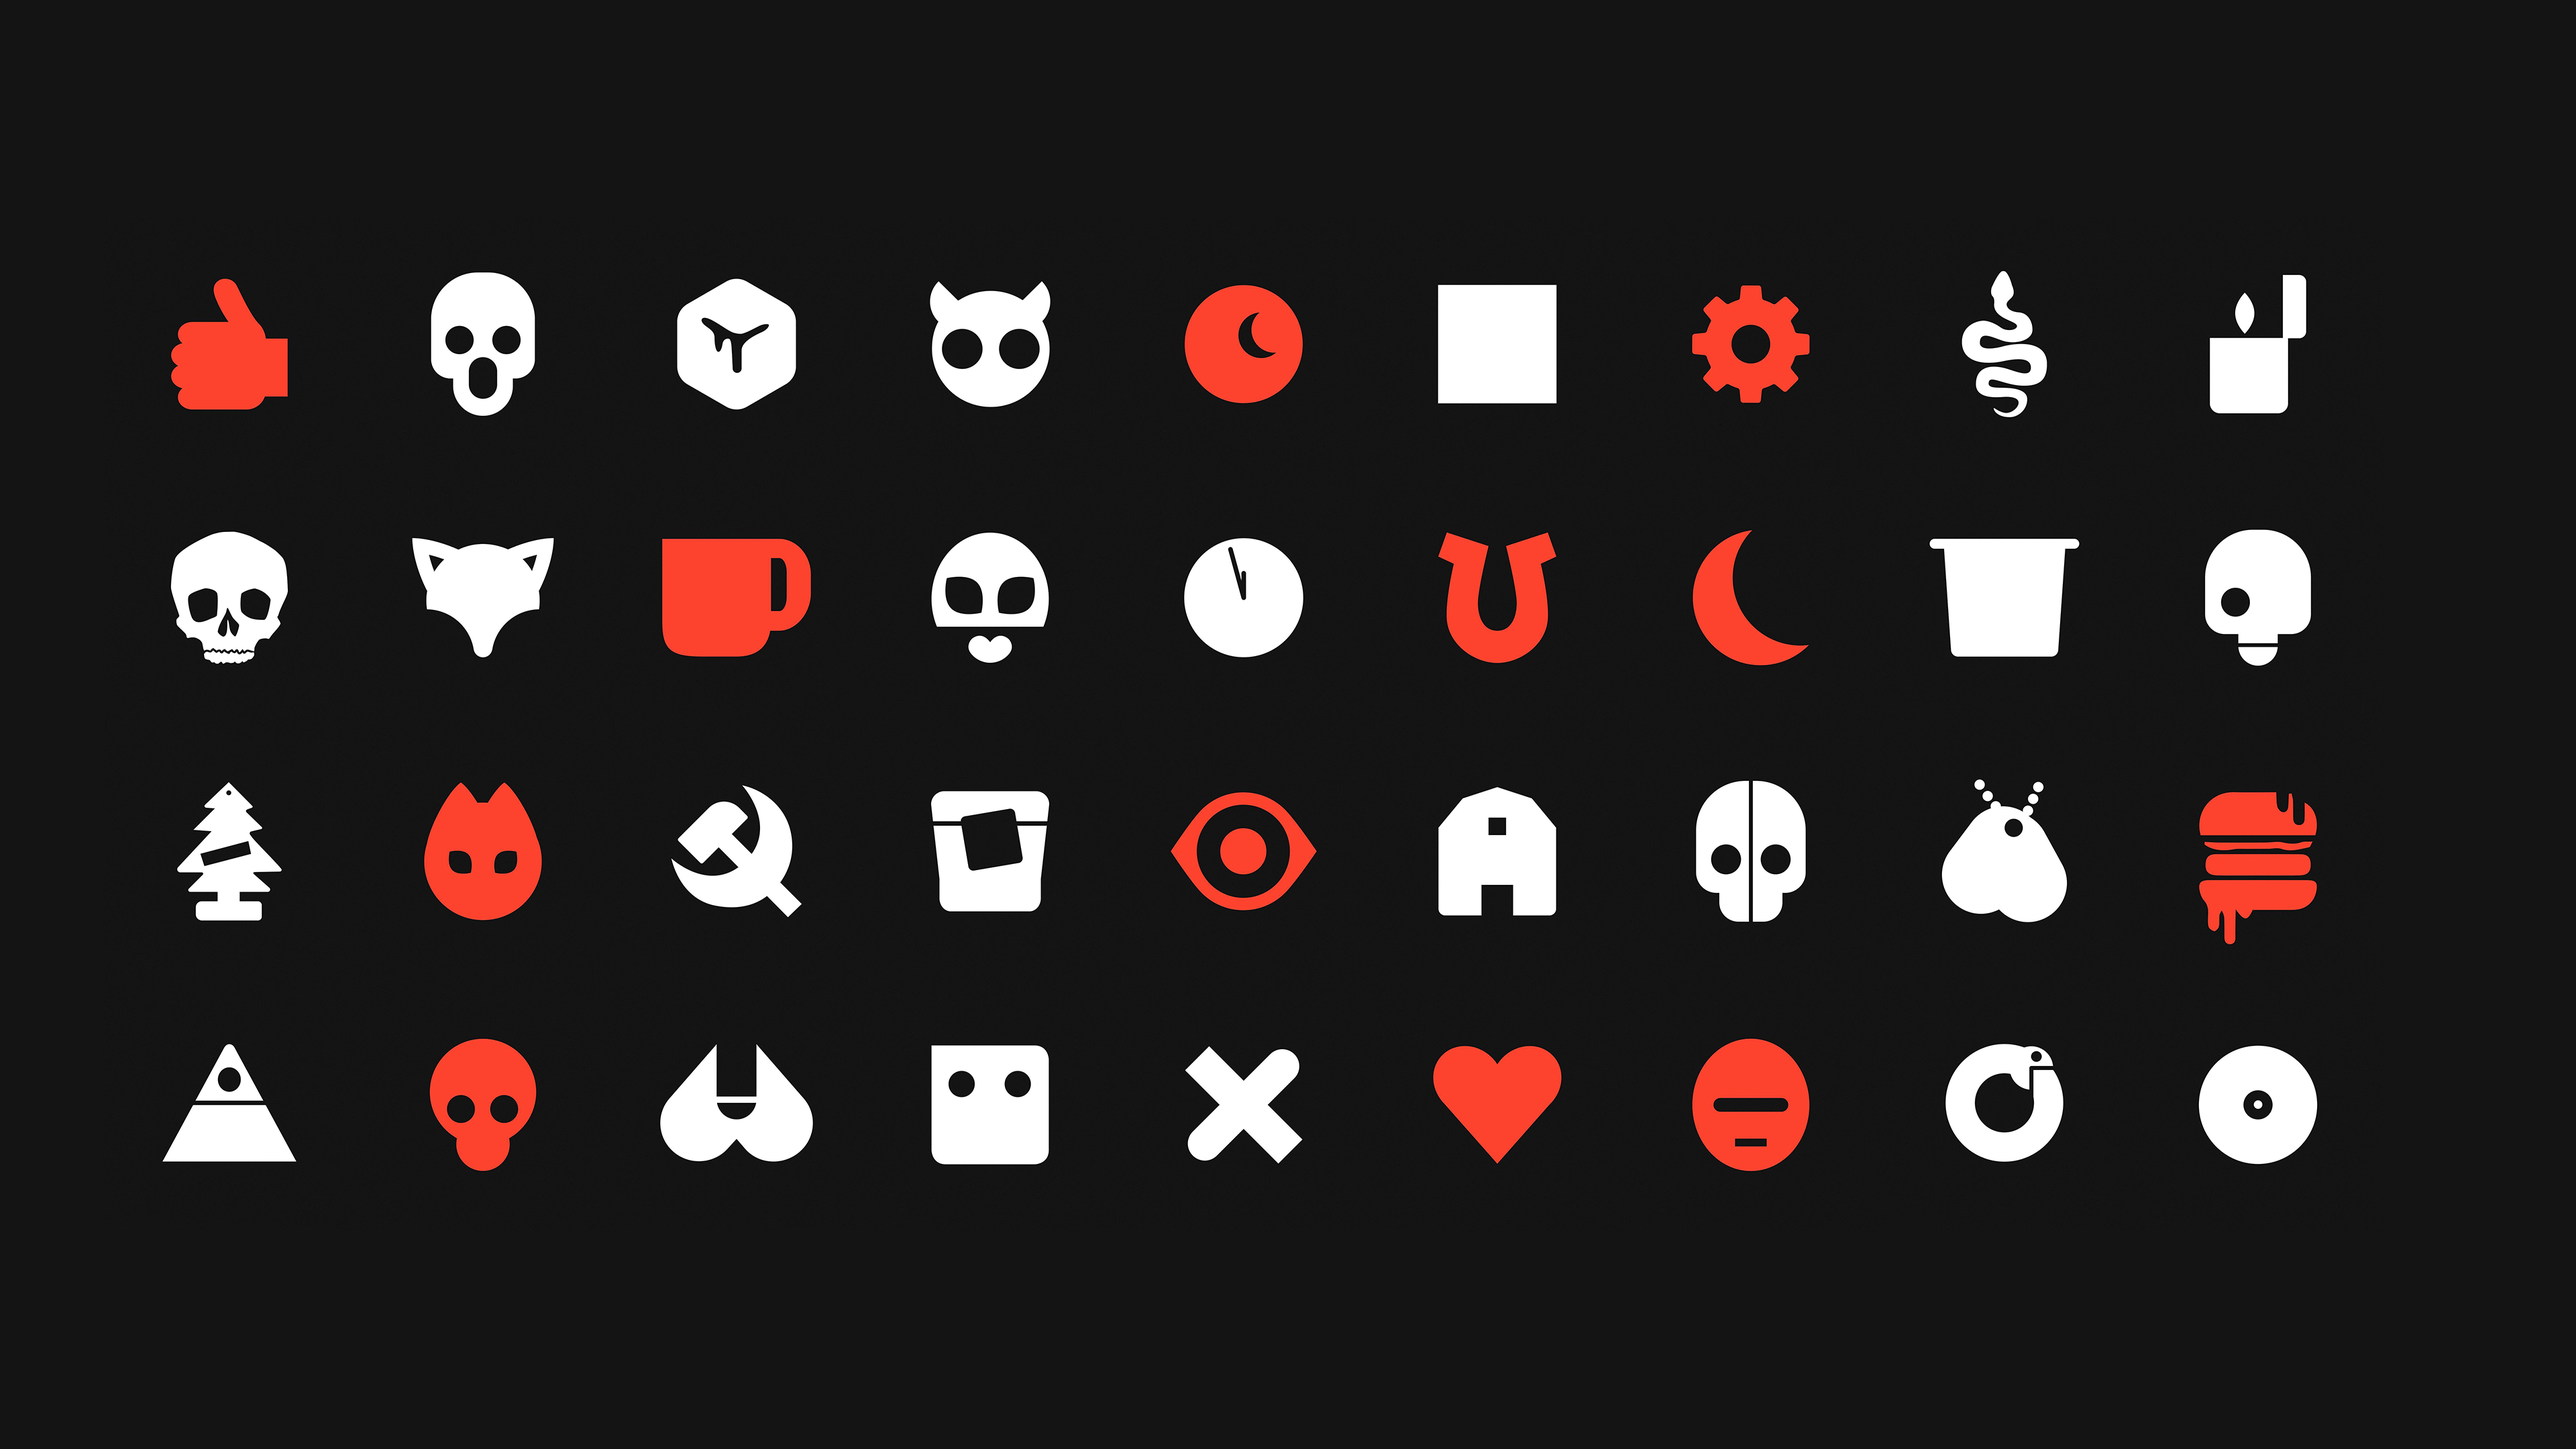
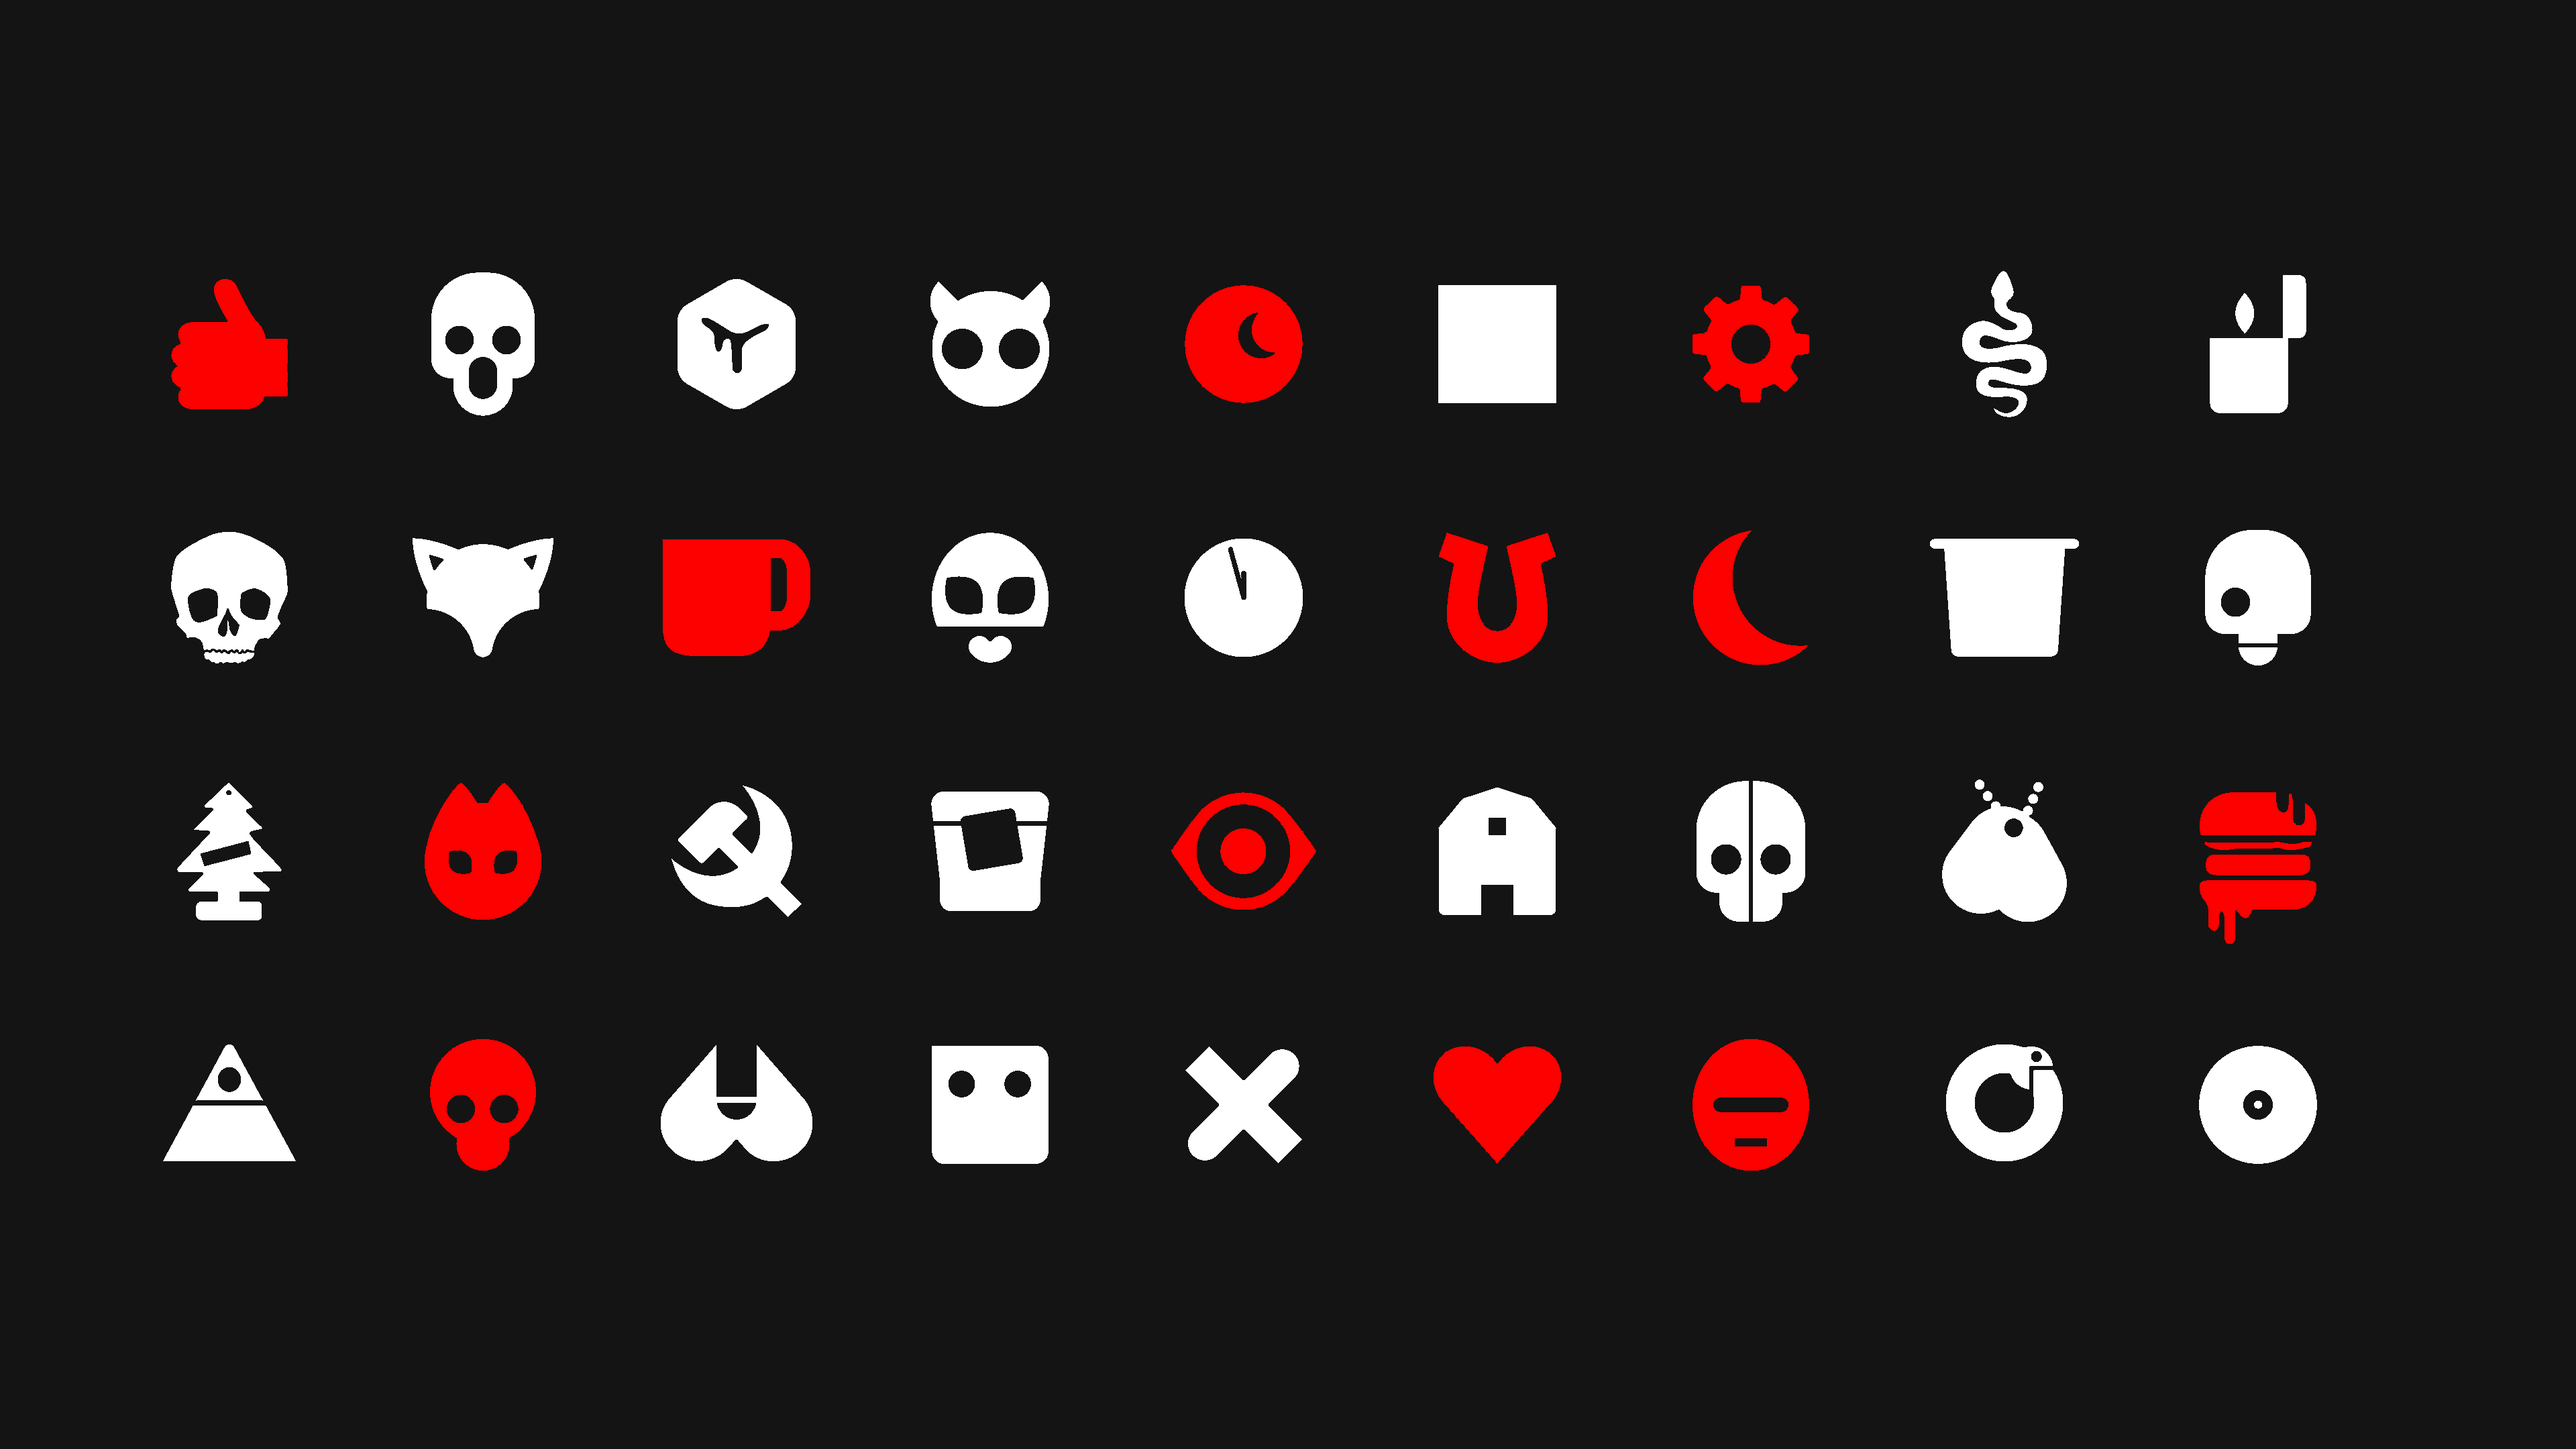
Changed primary color for themes that use wal, removed unused wallpapers, included vimium-c configuration file

diff --git a/root/home/user/.config/pywal-discord/pywal-discord-universal.css b/root/home/user/.config/pywal-discord/pywal-discord-universal.css
@@ -27,7 +27,7 @@ element {
   --lightbg: linear-gradient(rgba(255, 255, 255, 0.03),rgba(255, 255, 255, 0.03)),var(--background);
   --darkbg: linear-gradient(rgba(255, 255, 255, 0.01), rgba(255, 255, 255, 0.1)),var(--background);
   --bdfdb-blurple: var(--color2);
-  --brand-500: var(--color4); /* replace blurple */
+  --brand-500: var(--color3); /* replace blurple */
 }
 
 html.newBrand {
@@ -65,9 +65,9 @@ html.newBrand {
   --brand-experiment: var(--color1);
   --text-positive: var(--color2);
   --header-primary: var(--color6);
-  --header-secondary: var(--color4);
+  --header-secondary: var(--color3);
   --text-normal: var(--foreground);
-  --text-muted: var(--color4);
+  --text-muted: var(--color3);
   --text-link: var(--color12);
   --channels-default: var(--color6);
   --interactive-normal: var(--foreground);
@@ -78,7 +78,7 @@ html.newBrand {
   --background-secondary: transparent;  /* color-mix(in srgb, var(--background) 30%, transparent); */
   --background-secondary-alt: transparent; /* var(--background); */
   --background-tertiary: color-mix(in srgb, var(--background) 20%, transparent); /* originally var(--background) */
-  --background-accent: var(--color4);
+  --background-accent: var(--color3);
   --background-floating: var(--background);
   --background-mobile-primary: var(--background);
   --background-mobile-secondary: var(--color8);
@@ -114,17 +114,17 @@ html.newBrand {
   --scrollbar-auto-track: rgba(255, 255, 255, 0.06);
   --scrollbar-thin-track: rgba(255, 255, 255, 0.06);
   --text-positive: var(--color2);
-  --text-warning: var(--color4);
+  --text-warning: var(--color3);
   --text-danger: var(--color1);
   --info-positive-background: rgba(59, 165, 92, 0.8);
   --info-positive-foreground: var(--color2);
   --info-warning-background: rgba(250, 166, 26, 0.8);
-  --info-warning-foreground: var(--color4);
+  --info-warning-foreground: var(--color3);
   --info-danger-background: rgba(237, 66, 69, 0.8);
   --info-danger-foreground: var(--color1);
   --status-positive-background: var(--color2);
   --status-positive-text: var(--text);
-  --status-warning-background: var(--color4);
+  --status-warning-background: var(--color3);
   --status-danger-background: var(--color1);
 }
 
@@ -204,7 +204,7 @@ html.newBrand {
 
 .reaction-1hd86g.reactionMe-wv5HKu {
   background-color: var(--background);
-  border-color: var(--color4);
+  border-color: var(--color3);
 }
 
 /*
@@ -225,7 +225,7 @@ html.newBrand {
 
 .lookFilled-1Gx00P.colorYellow-2JqYwt {
   color: var(--text);
-  background-color: var(--color4);
+  background-color: var(--color3);
 }
 
 /* End rebranding gross yuck */

diff --git a/root/home/user/.config/waybar/style.css b/root/home/user/.config/waybar/style.css
@@ -7,9 +7,9 @@
   border-radius: 2px;
 }
 
-/*@define-color @color4;*/
+/*@define-color @color3;*/
 span.colored {
-  color: @color4;
+  color: @color3;
 }
 
 window#waybar {
@@ -95,7 +95,7 @@ button:hover {
 #idle_inhibitor,
 #scratchpad, 
 #custom-notifications {
-  border-top: 4px solid @color4;
+  border-top: 4px solid @color3;
   margin: 0px 4px;
   /* background: alpha(@background, 1); */
   background-color: mix(@background, #000000, 0.3);
@@ -106,7 +106,7 @@ button:hover {
 
 /* per-module configurations */
 #custom-notifications {
-  background: @color4;
+  background: @color3;
 	color: @background;
 }
 
